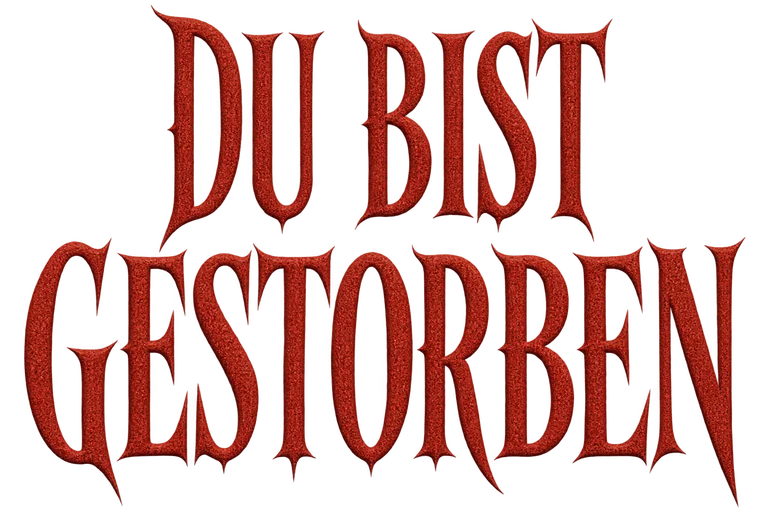
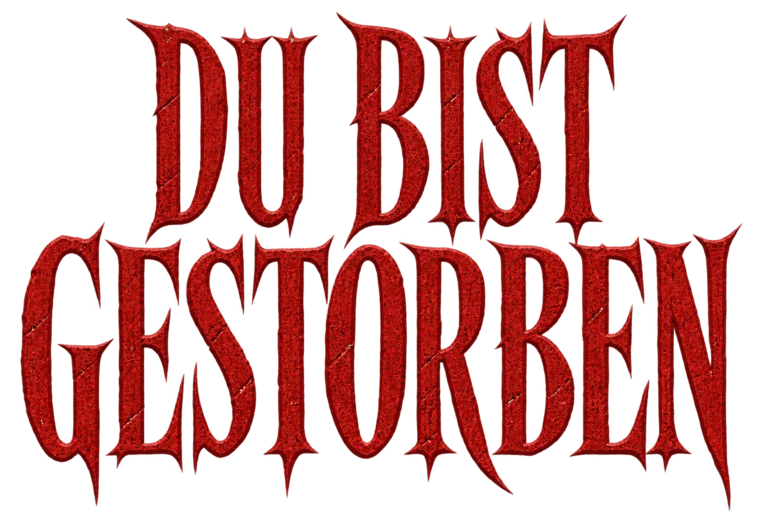
Niederlage gestalten und Rundenergebnisse nach Modus anzeigen

diff --git a/web/style.css b/web/style.css
@@ -46,10 +46,15 @@ body {
 .game[data-screen="info"] { background-image: none; }
 
 .game[data-screen="home"],
+.game[data-screen="defeat"],
 .game[data-screen="results"] {
     grid-template-columns: minmax(0, 1fr);
     width: min(100%, 33rem);
     background: #080707 var(--paper) center top / cover;
+}
+
+.game[data-screen="defeat"] {
+    background-image: radial-gradient(ellipse at 50% 57%, #440f164f, transparent 62%), var(--paper);
 }
 
 .game[data-screen="info"]::before {
@@ -62,8 +67,7 @@ body {
     content: "";
 }
 
-.game[data-killer="true"]::before,
-.game[data-screen="defeat"]::before {
+.game[data-killer="true"]::before {
     position: absolute;
     z-index: -1;
     inset: 0;
@@ -88,11 +92,12 @@ body {
 /* Position each crop against the original 864 × 1536 artwork. */
 .reference-art,
 .menu-button::before,
+.defeat-answer::before,
 .record-card:first-child .record-heading::after,
 .results-list div::before,
 .results-list div::after,
 .score-frame::before,
-.result-restart::before {
+.ornate-action::before {
     background-image: var(--art);
     background-repeat: no-repeat;
     background-size: calc(864 / var(--crop-width) * 100%) calc(1536 / var(--crop-height) * 100%);
@@ -239,7 +244,8 @@ button:disabled { cursor: default; opacity: 0.56; }
 }
 
 .menu-button::before,
-.result-restart::before {
+.defeat-answer::before,
+.ornate-action::before {
     position: absolute;
     z-index: -1;
     inset: 0;
@@ -248,7 +254,8 @@ button:disabled { cursor: default; opacity: 0.56; }
     content: "";
 }
 
-.menu-button::before {
+.menu-button::before,
+.defeat-answer::before {
     --art: var(--menu-art);
     --crop-x: 66;
     --crop-y: 625;
@@ -257,7 +264,7 @@ button:disabled { cursor: default; opacity: 0.56; }
 }
 
 .menu-button.inscribed:hover:not(:disabled),
-.result-restart.inscribed:hover:not(:disabled) {
+.ornate-action.inscribed:hover:not(:disabled) {
     background-color: #300d0d9c;
     color: #fff1df;
 }
@@ -499,14 +506,71 @@ legend { margin-bottom: 0.45rem; color: var(--gold); }
 
 .defeat-screen,
 .result-screen { text-align: center; }
-.defeat-screen { display: grid; align-content: center; min-height: 100svh; }
-.defeat-title img {
-    display: block;
-    width: min(62cqw, 22rem);
-    height: auto;
-    margin-inline: auto;
+
+.defeat-screen {
+    display: flex;
+    flex-direction: column;
+    align-items: center;
+    min-height: 100svh;
+    padding: 0;
 }
-.defeat-solution { font: 2rem Georgia, serif; }
+
+.defeat-crest {
+    height: min(19svh, 42cqw);
+    mask-image: linear-gradient(#000 92%, transparent);
+}
+
+.defeat-title {
+    width: min(80%, 23rem);
+    margin: clamp(0.35rem, 2svh, 1.25rem) auto 0;
+    font-size: clamp(2.5rem, 10cqw, 4.8rem);
+}
+
+.defeat-title img { display: block; width: 100%; height: auto; filter: saturate(0.82) brightness(0.86); }
+
+.defeat-divider {
+    --art: var(--results-art);
+    --crop-x: 105;
+    --crop-y: 334;
+    --crop-width: 650;
+    --crop-height: 46;
+    width: 70%;
+    margin-block: 0.35rem 0.75rem;
+}
+
+#defeat-timeout { margin: 0 0 0.6rem; color: var(--red-bright); }
+
+.defeat-answer {
+    position: relative;
+    isolation: isolate;
+    display: grid;
+    align-content: center;
+    gap: 0.3rem;
+    width: 85%;
+    min-height: clamp(5.5rem, 24cqw, 8rem);
+    padding: 1rem 9%;
+    background: #08050599;
+}
+
+.defeat-answer-label {
+    margin: 0;
+    color: #d9cabb;
+    font: clamp(0.72rem, 3cqw, 1rem) / 1.25 Georgia, serif;
+    letter-spacing: 0.12em;
+    text-transform: uppercase;
+}
+
+.defeat-solution {
+    margin: 0;
+    font: clamp(1.35rem, 6.4cqw, 2.45rem) / 1.18 Georgia, serif;
+    overflow-wrap: anywhere;
+}
+
+.defeat-flourish {
+    flex: none;
+    margin-top: auto;
+    mask-image: linear-gradient(transparent, #000 8%);
+}
 
 .result-screen { padding: 0 8% clamp(1.25rem, 4svh, 2.5rem); }
 
@@ -560,9 +624,22 @@ legend { margin-bottom: 0.45rem; color: var(--gold); }
     width: 100%;
 }
 
-#result-duration-row, #result-multiplier-row { --icon-y: 403; --mark-y: 426; }
+#result-duration-row::before {
+    justify-self: center;
+    width: 88%;
+    aspect-ratio: 1;
+    border: 1px solid #7b3930;
+    border-radius: 50%;
+    background: linear-gradient(#bb6050, #bb6050) 50% 35% / 1px 27% no-repeat,
+                linear-gradient(#bb6050, #bb6050) 65% 50% / 26% 1px no-repeat,
+                var(--paper) center / cover;
+    box-shadow: inset 0 0 0 3px #0d0908, inset 0 0 0 4px #532922;
+}
+
+#result-duration-row::after { content: none; }
+#result-multiplier-row { --icon-y: 403; --mark-y: 426; }
 #result-correct-row { --icon-y: 550; --mark-y: 577; }
-#result-streak-row { --icon-y: 697; --mark-y: 727; }
+.result-streak-row { --icon-y: 697; --mark-y: 727; }
 
 .results-list dt {
     grid-area: label;
@@ -630,7 +707,7 @@ legend { margin-bottom: 0.45rem; color: var(--gold); }
     }
 }
 
-.result-restart.inscribed {
+.ornate-action.inscribed {
     isolation: isolate;
     width: 85%;
     min-height: clamp(3rem, 16cqw, 5.25rem);
@@ -644,7 +721,13 @@ legend { margin-bottom: 0.45rem; color: var(--gold); }
     text-transform: uppercase;
 }
 
-.result-restart::before {
+.defeat-screen .ornate-action.inscribed {
+    width: 79%;
+    margin: 0.95rem auto;
+    letter-spacing: 0.09em;
+}
+
+.ornate-action::before {
     --art: var(--results-art);
     --crop-x: 114;
     --crop-y: 1269;
@@ -673,7 +756,8 @@ legend { margin-bottom: 0.45rem; color: var(--gold); }
 }
 
 @media (max-height: 34rem) and (orientation: landscape) {
-    .game[data-screen="home"], .game[data-screen="results"] { width: min(100%, 23rem); }
+    .game[data-screen="home"], .game[data-screen="defeat"],
+    .game[data-screen="results"] { width: min(100%, 23rem); }
     .menu-crest { height: 6rem; }
     .menu-button.inscribed { min-height: 3.7rem; font-size: 1.65rem; }
 }
@@ -681,7 +765,8 @@ legend { margin-bottom: 0.45rem; color: var(--gold); }
 @media (forced-colors: active) {
     .reference-art { background: none; }
     .game-title span, .results-title span { color: CanvasText; }
-    .menu-button.inscribed, .result-restart.inscribed, .score-frame { border: 1px solid ButtonText; }
+    .menu-button.inscribed, .ornate-action.inscribed, .defeat-answer,
+    .score-frame { border: 1px solid ButtonText; }
 }
 
 @media (max-height: 30rem) {

diff --git a/web/index.html b/web/index.html
@@ -150,33 +150,37 @@
         </section>
 
         <section id="defeat" class="screen defeat-screen" aria-labelledby="defeat-title" hidden>
+            <div class="menu-crest defeat-crest reference-art" aria-hidden="true"></div>
             <h2 id="defeat-title" class="screen-title defeat-title" tabindex="-1">
-                <img src="assets/defeat-title.webp" alt="Du bist gestorben" width="768" height="512">
+                <img src="assets/defeat-title.webp" width="760" height="522" alt="Du bist gestorben">
             </h2>
-            <div class="ornament" aria-hidden="true"><span>✦</span></div>
+            <div class="defeat-divider reference-art" aria-hidden="true"></div>
             <p id="defeat-timeout" class="notice" hidden>Zeit abgelaufen.</p>
-            <p class="notice">Die richtige Lösung</p>
-            <p id="defeat-solution" class="defeat-solution"></p>
-            <button class="inscribed primary" type="button" data-end>Zu den Ergebnissen</button>
+            <div class="defeat-answer">
+                <p class="defeat-answer-label">Die richtige Lösung</p>
+                <p id="defeat-solution" class="defeat-solution"></p>
+            </div>
+            <button class="inscribed primary ornate-action" type="button" data-end>Zu den Ergebnissen</button>
+            <div class="menu-flourish defeat-flourish reference-art" aria-hidden="true"></div>
         </section>
 
         <section id="results" class="screen result-screen" aria-labelledby="results-title" hidden>
             <h2 id="results-title" class="screen-title results-title reference-art" tabindex="-1"><span>Deine Ergebnisse</span></h2>
             <p id="result-mode" class="notice"></p>
             <dl class="results-list">
-                <div id="result-duration-row" hidden><dt>Dauer</dt><dd id="result-duration"></dd></div>
-                <div id="result-multiplier-row" hidden><dt>Max. Multiplikator</dt><dd id="result-multiplier"></dd></div>
+                <div id="result-duration-row" hidden><dt>Dauer</dt><dd id="result-duration">0:00</dd></div>
                 <div id="result-correct-row" hidden>
                     <dt>Richtige Antworten</dt>
-                    <dd><span id="result-correct-count">0</span> / <span id="result-answered-count">0</span></dd>
+                    <dd id="result-correct"><span id="result-correct-count">0</span> / <span id="result-answered-count">0</span></dd>
                 </div>
-                <div id="result-streak-row"><dt>Längste Serie</dt><dd id="result-streak">0</dd></div>
+                <div id="result-multiplier-row" hidden><dt>Max. Multiplikator</dt><dd id="result-multiplier">×0,00</dd></div>
+                <div class="result-streak-row"><dt>Längste Serie</dt><dd id="result-streak">0</dd></div>
             </dl>
             <div class="score-frame">
                 <span>Dein Gesamtergebnis</span>
                 <strong id="result-score">0</strong>
             </div>
-            <button class="inscribed primary result-restart" type="button" value="restart" data-start>Nochmal spielen</button>
+            <button class="inscribed primary ornate-action" type="button" value="restart" data-start>Nochmal spielen</button>
             <button class="text-button back-link" type="button" value="home" data-nav>Zum Hauptmenü</button>
         </section>
     </main>
